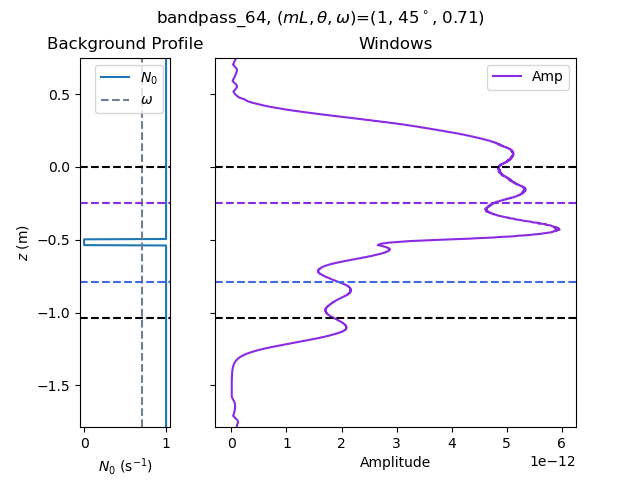
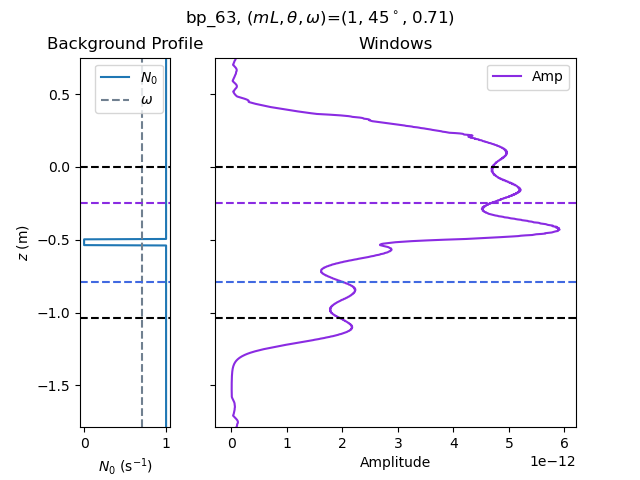
Can now switch between band pass and just positives

diff --git a/post_process.py b/post_process.py
@@ -89,35 +89,30 @@ def get_h5_data(tasks, h5_files):
                 kz = np.array(f['scales']['kz'])
     return t, z, kz, psi_array#, psi_c_array
 
-# fourier transform in time, filter negative freq's, inverse fourier transform
-# def FT_in_time(t, z, data, dt, omega):
-#     # FT in time of the data (axis 1 is time)
-#     ftd = np.fft.fft(data, axis=1)
-#     # find relevant frequencies
-#     freq = np.fft.fftfreq(len(t), dt)
-#     # Filter out negative frequencies
-#     for j in range(len(freq)):
-#         if freq[j] < 0.0:
-#             # Gets rid of negative freq's
-#             ftd[:,j] = 0.0
-#         else:
-#             # Corrects for lost amplitude
-#             ftd[:,j] = ftd[:,j] * 2.0
-#     # inverse fourier transform in time of the data
-#     iftd = np.fft.ifft(ftd, axis=1)
-#     #   a complex valued signal where iftd.real == data, or close enough
-#     return iftd
+def filter_neg_freqs(ftd, freq):
+    # Find number of frequencies
+    nf = len(freq)
+    # Filter out negative frequencies
+    for j in range(nf):
+        if freq[j] < 0.0:
+            # Gets rid of negative freq's
+            ftd[:,j] = 0.0
+        else:
+            # Corrects for lost amplitude
+            ftd[:,j] = ftd[:,j] * 2.0
+    return ftd
 
-def apply_band_pass(ftd, freq, nf, omega, bp_wid=1):
+def apply_band_pass(ftd, freq, omega, bp_wid=1):
     """
-    Applies band pass to data already FT in time. Fragile function
+    Applies rectangular band pass to data already FT'd in time. Fragile function
 
     ftd         data as output by np.fft.fft
     freq        array of frequencies as output by np.fft.fftfreq
-    nf          number of frequencies, len(freq)
     omega       frequency of forced waves
     bp_wid      number extra indices to include on either side of idx_om
     """
+    # Find number of frequencies
+    nf = len(freq)
     # Find index for band pass, only consider indices of positive freqs
     idx_om = hf.find_nearest_index(freq[0:nf//2], omega)
     # Filter out frequencies left of band pass
@@ -134,10 +129,14 @@ def FT_in_time(t, z, data, dt, omega):
     ftd = np.fft.fft(data, axis=1)
     # find relevant frequencies
     freq = np.fft.fftfreq(len(t), dt)
-    # number of frequencies
-    nf = len(freq)
-    # Apply band pass
-    ftd = apply_band_pass(ftd, freq, nf, omega, bp_wid=64)
+    # Apply filtering on frequencies
+    use_bp = True
+    if use_bp:
+        # Apply band pass
+        ftd = apply_band_pass(ftd, freq, omega, bp_wid=63)
+    else:
+        # Filter out just the negative frequencies
+        ftd = filter_neg_freqs(ftd, freq)
     # inverse fourier transform in time of the data
     iftd = np.fft.ifft(ftd, axis=1)
     #   a complex valued signal where iftd.real == data, or close enough

diff --git a/switchboard.py b/switchboard.py
@@ -81,11 +81,11 @@ use_rayleigh_friction   = False
 boundary_forcing_region = True  # If False, waves will be forced over entire domain
 
 # Plotting parameters
-plot_spacetime = True
+plot_spacetime = False
 plot_wavespace = False
 plot_amplitude = True
-plot_windows   = True
-plot_up_dn     = True
+plot_windows   = False
+plot_up_dn     = False
 # If true, plot will include full simulated domain, if false, just the display domain
 plot_full_domain = True
 
